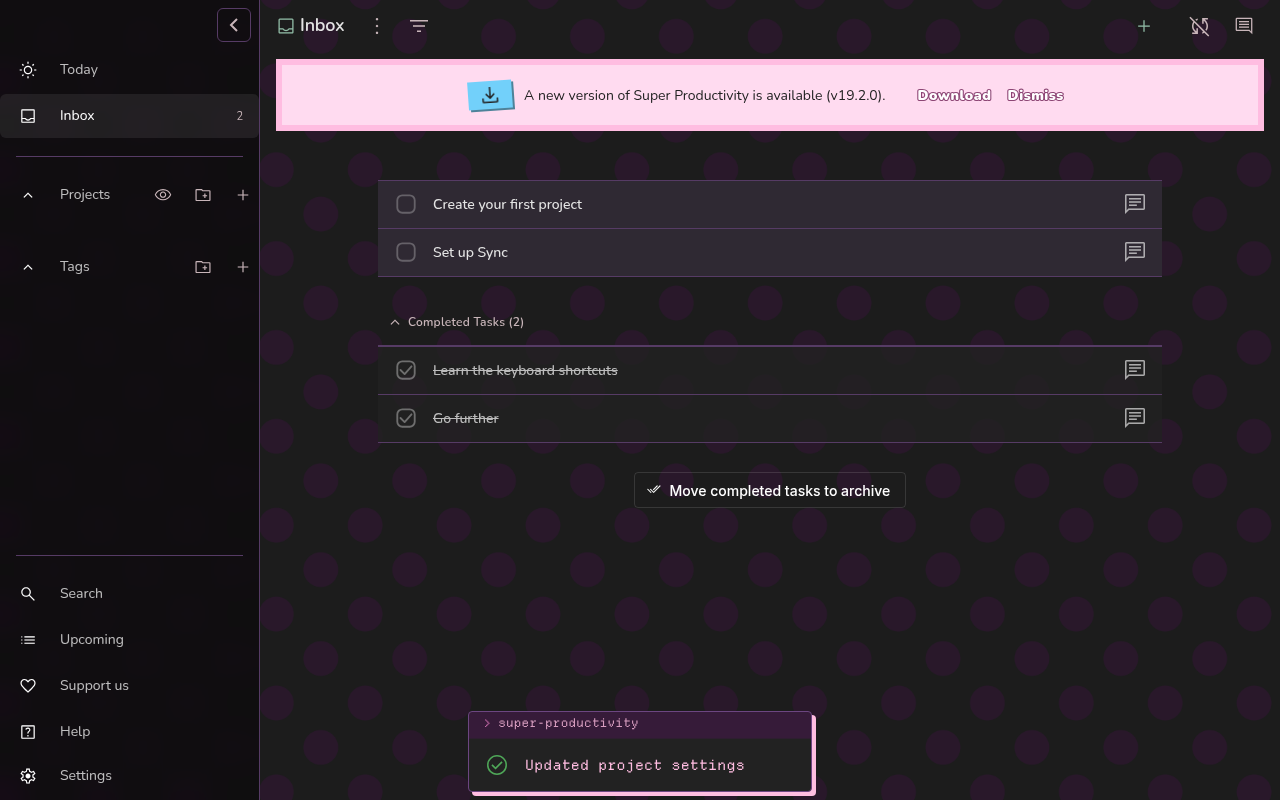
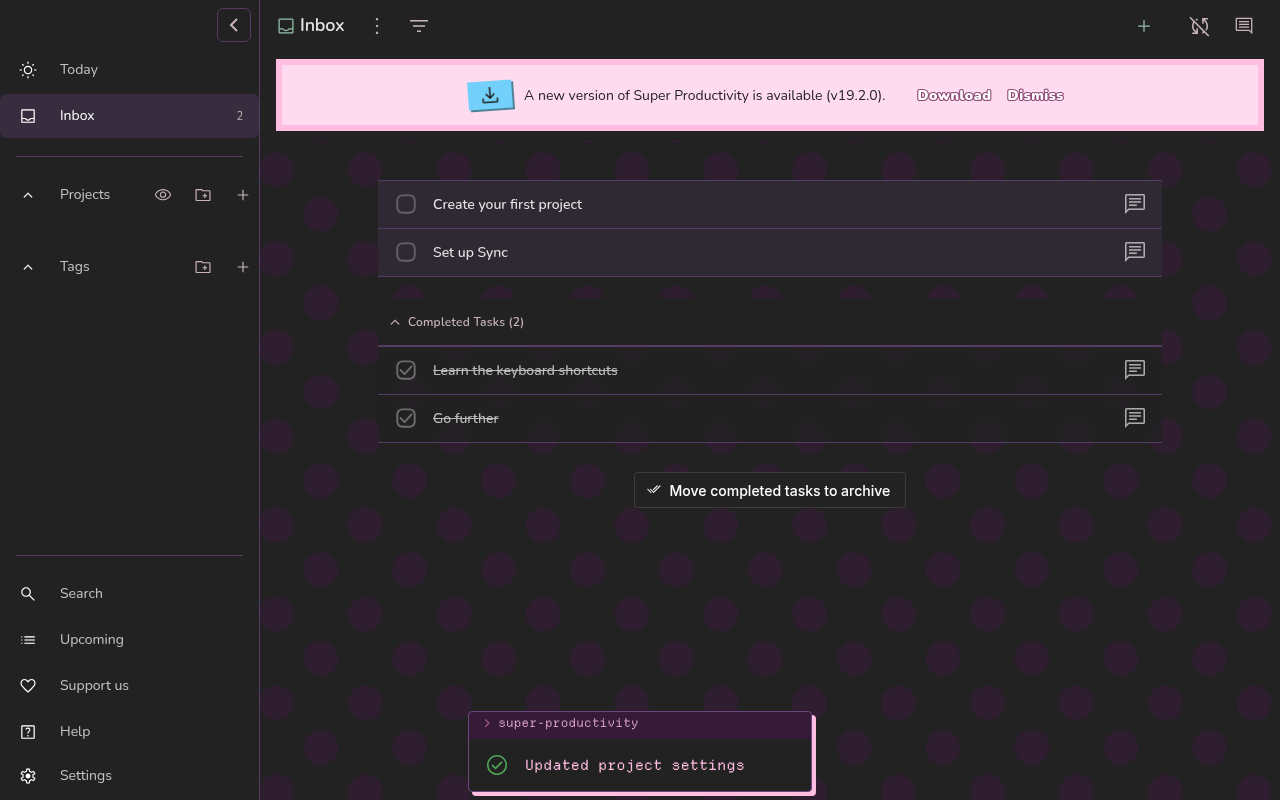
Calm Super Productivity over a background image
On the light side a busy background image made the theme garish:
translucent pale layers let every colour of the picture through, and
words lay straight on the picture. The header, a section's title row,
the buttons on the task list, the empty list's note and the settings
page's search field, tabs and title now stand on the page's colour
while an image is on. A done task takes the page's colour and keeps its
light fade. The task open in the side panel takes the panel's colour,
the active menu item takes the theme's pink, and the app's veil over
the image is the page's colour. In the desktop app with its own title
bar, the vertical action bar reaches the top of the window again.

Assisted-by: Claude Code:claude-opus-5-5 (mostly)

Changed region(s): [[0.0, 0.0938, 0.2188, 0.1875]]

diff --git a/dist/ddlc-super-productivity.css b/dist/ddlc-super-productivity.css
@@ -22,13 +22,15 @@ body {
   --separator: #FFBDE1;
   --divider: #FFBDE1;
   --scrim: #22222299;
+  --bg-overlay: #FFEDF8;
   --sidenav-bg: #FFFFFF;
+  --sidenav-item-active-bg: #FFDBF0;
   --right-panel-bg: #FFDBF0;
   --task-c-bg: #FFFFFF;
   --sub-task-c-bg: #FFFFFF;
-  --task-c-bg-done: #F0DDE7;
-  --task-c-selected-bg: #FFE8F5;
-  --sub-task-c-bg-done: #F0DDE7;
+  --task-c-bg-done: #FFEDF8;
+  --task-c-selected-bg: #FFDBF0;
+  --sub-task-c-bg-done: #FFEDF8;
   --link-color: #BB5599;
   --c-accent: #BB5599;
   --palette-accent-300: #DD77BB;
@@ -70,7 +72,9 @@ body.isDarkTheme {
   --separator: #563B65;
   --divider: #563B65;
   --scrim: #22222299;
+  --bg-overlay: #222222;
   --sidenav-bg: #222222;
+  --sidenav-item-active-bg: #382D3F;
   --right-panel-bg: #222222;
   --task-c-bg: #2F2933;
   --sub-task-c-bg: #2F2933;
@@ -114,7 +118,8 @@ body {
 }
 
 /* The app gives a done task its own colour on the dark side only. The box is the empty layer
-   under the task's line, so its fade lets the background through and leaves the words alone */
+   under the task's line, so its light fade lets a little of the background through and leaves
+   the words alone */
 task.isDone > swipe-block > .inner-wrapper > .inner-wrapper > .box {
   background: var(--task-c-bg-done);
   opacity: var(--task-is-done-dim-opacity);
@@ -152,7 +157,63 @@ work-view .status-bar[class] {
   margin-inline: auto;
   padding: 2px 14px;
   border-radius: 999px;
-  background: var(--sidenav-bg);
+  background: var(--bg);
+}
+
+/* Over a background image, the other words that sit straight on the page take the page's
+   colour back in the same way. Each backing has the shape of a thing the page already has: the
+   header is a bar across the page, a section's title is a row as wide as its tasks, and a
+   button is filled. Without an image the page is that colour already, and the app tints the
+   page with the project's colour, so the rules hold only while an image is on */
+body.hasBgImage .header-wrapper {
+  background: var(--bg);
+}
+
+body.hasBgImage work-view collapsible > .collapsible-header {
+  padding-inline: var(--s);
+  background: var(--bg);
+}
+
+body.hasBgImage work-view .mdc-button--outlined[class] {
+  background: var(--bg);
+}
+
+/* The empty list's note is centred, as the day's totals are, so it takes their pill */
+body.hasBgImage work-view .no-tasks-label[class] {
+  padding: 2px 14px;
+  border-radius: 999px;
+  background: var(--bg);
+}
+
+/* The settings page has its own head under the header: a search field, a row of tabs and the
+   tab's title. The field is filled, the row is a strip, and the title is a row as wide as the
+   cards under it. The app fades the idle field, which would let the image through the fill */
+body.hasBgImage .page-settings .settings-search[class] {
+  opacity: 1;
+}
+
+body.hasBgImage .page-settings .settings-search .mdc-text-field {
+  border-radius: var(--input-border-radius);
+  background: var(--bg);
+}
+
+body.hasBgImage .page-settings .settings-tabs .mat-mdc-tab-header {
+  border-radius: var(--card-border-radius) var(--card-border-radius) 0 0;
+  background: var(--bg);
+}
+
+body.hasBgImage .page-settings .tab-content .section-title {
+  padding: var(--s) var(--s2);
+  border-radius: var(--card-border-radius);
+  background: var(--bg);
+}
+
+/* In the desktop app with its own title bar, the app moves the vertical action bar down under
+   the window controls, and the background image then shows in the gap above the bar. The bar
+   reaches the top again and its padding keeps the buttons where the app put them */
+body.isElectron.isNoMac.isObsidianStyleHeader > nav.action-nav-right.action-nav-right--teleported {
+  top: 0;
+  padding-top: calc(var(--wco-height) + var(--s) + var(--s-half));
 }
 
 /* A banner is the "Just Monika." pop-up, as a callout is in the Obsidian theme: a pale ground

diff --git a/src/super-productivity.css b/src/super-productivity.css
@@ -14,7 +14,8 @@ body {
 }
 
 /* The app gives a done task its own colour on the dark side only. The box is the empty layer
-   under the task's line, so its fade lets the background through and leaves the words alone */
+   under the task's line, so its light fade lets a little of the background through and leaves
+   the words alone */
 task.isDone > swipe-block > .inner-wrapper > .inner-wrapper > .box {
   background: var(--task-c-bg-done);
   opacity: var(--task-is-done-dim-opacity);
@@ -52,7 +53,63 @@ work-view .status-bar[class] {
   margin-inline: auto;
   padding: 2px 14px;
   border-radius: 999px;
-  background: var(--sidenav-bg);
+  background: var(--bg);
+}
+
+/* Over a background image, the other words that sit straight on the page take the page's
+   colour back in the same way. Each backing has the shape of a thing the page already has: the
+   header is a bar across the page, a section's title is a row as wide as its tasks, and a
+   button is filled. Without an image the page is that colour already, and the app tints the
+   page with the project's colour, so the rules hold only while an image is on */
+body.hasBgImage .header-wrapper {
+  background: var(--bg);
+}
+
+body.hasBgImage work-view collapsible > .collapsible-header {
+  padding-inline: var(--s);
+  background: var(--bg);
+}
+
+body.hasBgImage work-view .mdc-button--outlined[class] {
+  background: var(--bg);
+}
+
+/* The empty list's note is centred, as the day's totals are, so it takes their pill */
+body.hasBgImage work-view .no-tasks-label[class] {
+  padding: 2px 14px;
+  border-radius: 999px;
+  background: var(--bg);
+}
+
+/* The settings page has its own head under the header: a search field, a row of tabs and the
+   tab's title. The field is filled, the row is a strip, and the title is a row as wide as the
+   cards under it. The app fades the idle field, which would let the image through the fill */
+body.hasBgImage .page-settings .settings-search[class] {
+  opacity: 1;
+}
+
+body.hasBgImage .page-settings .settings-search .mdc-text-field {
+  border-radius: var(--input-border-radius);
+  background: var(--bg);
+}
+
+body.hasBgImage .page-settings .settings-tabs .mat-mdc-tab-header {
+  border-radius: var(--card-border-radius) var(--card-border-radius) 0 0;
+  background: var(--bg);
+}
+
+body.hasBgImage .page-settings .tab-content .section-title {
+  padding: var(--s) var(--s2);
+  border-radius: var(--card-border-radius);
+  background: var(--bg);
+}
+
+/* In the desktop app with its own title bar, the app moves the vertical action bar down under
+   the window controls, and the background image then shows in the gap above the bar. The bar
+   reaches the top again and its padding keeps the buttons where the app put them */
+body.isElectron.isNoMac.isObsidianStyleHeader > nav.action-nav-right.action-nav-right--teleported {
+  top: 0;
+  padding-top: calc(var(--wco-height) + var(--s) + var(--s-half));
 }
 
 /* A banner is the "Just Monika." pop-up, as a callout is in the Obsidian theme: a pale ground

diff --git a/CHANGELOG.md b/CHANGELOG.md
@@ -7,6 +7,12 @@ Kept in the shape of [Keep a Changelog](https://keepachangelog.com/en/1.1.0/), v
 ### Fixed
 
 - Super Productivity over a background image: the side menu and the vertical action bar are opaque instead of translucent, paper on the light side; the task's side panel has a ground of its own, dot on the light side; the task open in that panel is an opaque colour; the buttons the pointer brings up on a done task take its colour instead of white; and the day's totals stand on a pill of the page's colour
+- Super Productivity over a background image: the page's header is a bar of the page's colour, and so are a task section's title row, the buttons on the task list, the empty list's note, and the settings page's search field, tab row and tab title, so the picture no longer runs through their words
+- Super Productivity in the desktop app with its own title bar: the vertical action bar reaches the top of the window, where the background image showed in a gap above it
+
+### Changed
+
+- Super Productivity: on the light side a done task takes the page's colour instead of a grey mauve, the task open in the side panel takes the panel's colour, and the active menu item is the theme's pink instead of a tint of the project's colour; the veil the app lays over a background image is the page's colour instead of plain white or black
 
 ## [3.4.0] - 2026-10-13
 
